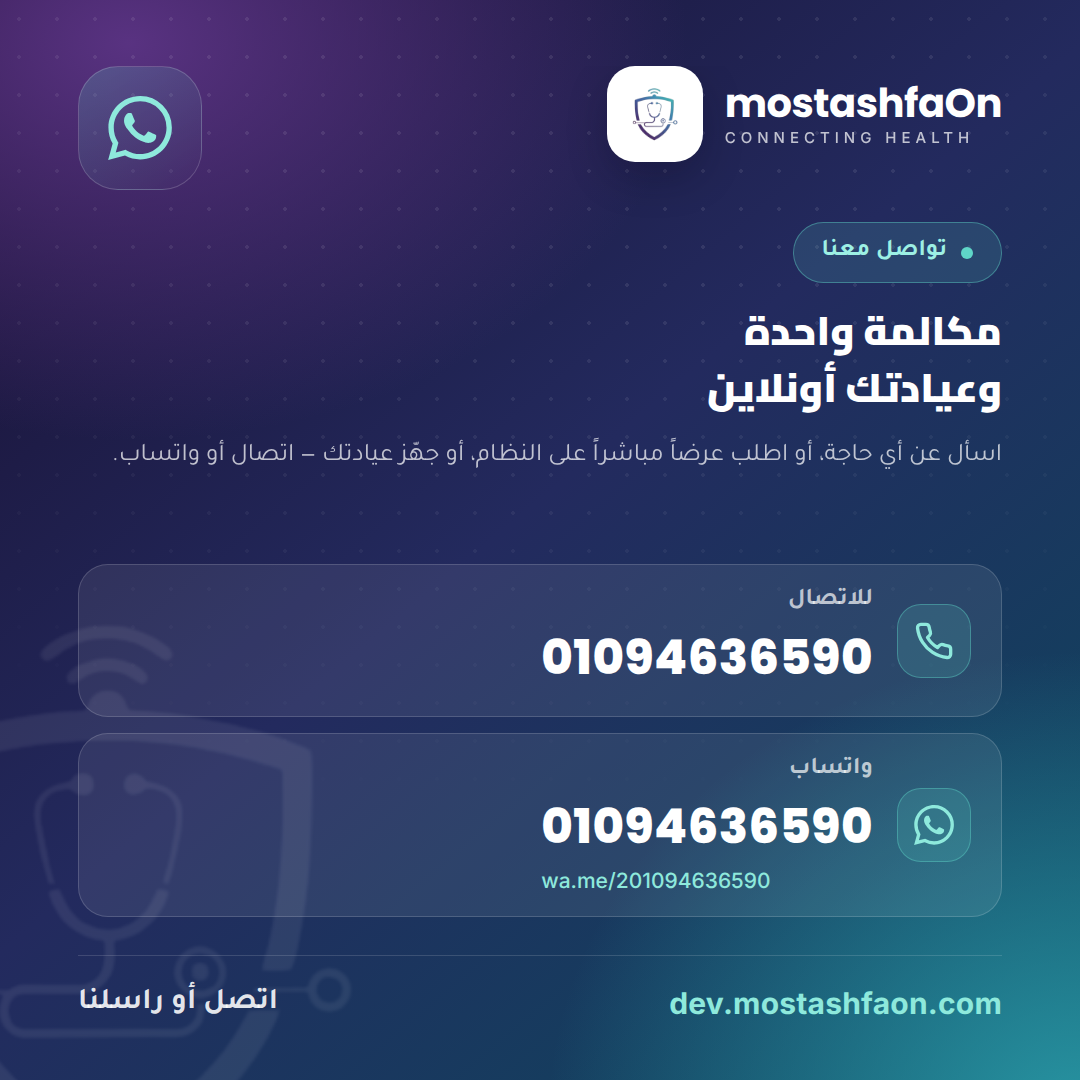
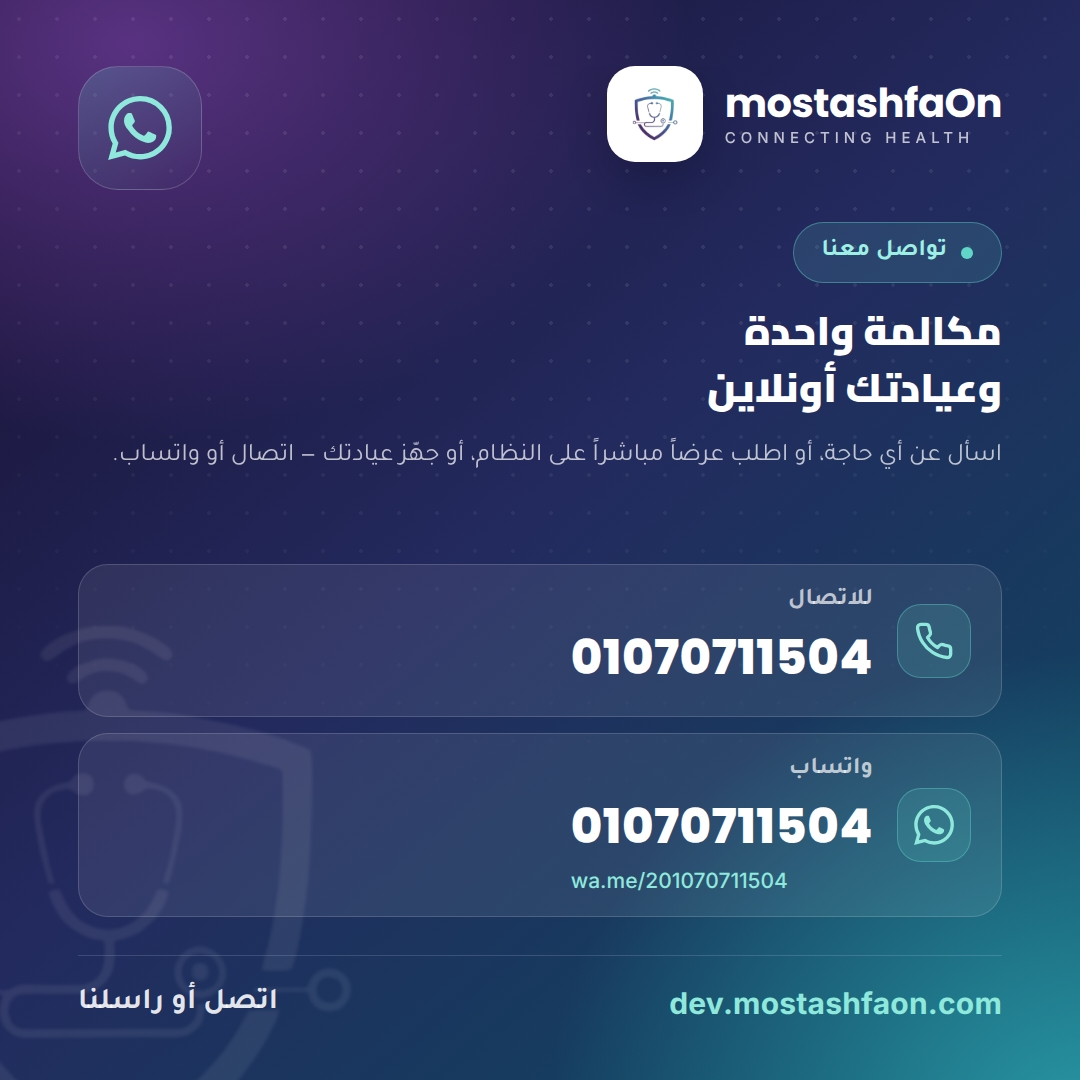
docs(marketing): change the contact number to 01070711504
Replaces the number on the contact cards and the phone covers, and in the
captions and the kit README, including the WhatsApp link
(wa.me/201070711504).

Claude-Session: https://claude.ai/code/session_01TWxwmWVDAeZ8zHuGmmbs3A

Changed region(s): [[0.4889, 0.7333, 0.825, 0.825], [0.4889, 0.5806, 0.825, 0.6417]]

diff --git a/docs/marketing/facebook/README.md b/docs/marketing/facebook/README.md
@@ -25,7 +25,7 @@ Cairo/Tajawal for Arabic. Every image carries `dev.mostashfaon.com`.
 
 - `cover-en.png`, `cover-ar.png` — all text sits in the centre safe area, so nothing is lost when
   Facebook crops the cover on mobile or hides the bottom-left corner behind the profile picture
-- `cover-en-phone.png`, `cover-ar-phone.png` — the same covers with **01094636590** (call and
+- `cover-en-phone.png`, `cover-ar-phone.png` — the same covers with **01070711504** (call and
   WhatsApp) on a pill under the trial link
 
 **Posts** (1080 × 1080 square — best reach in the feed). Each theme exists as `-en` and `-ar`:
@@ -43,7 +43,7 @@ Cairo/Tajawal for Arabic. Every image carries `dev.mostashfaon.com`.
 | 09 | `post-09-reception-{en,ar}.png` | Reception app and self check-in |
 | 10 | `post-10-medical-history-{en,ar}.png` | Patient file and medical history |
 | 11 | `post-11-website-{en,ar}.png` | Doctor profile website + features on demand |
-| — | `contact-{en,ar}.png` | Contact card: **01094636590** for calls and WhatsApp (`wa.me/201094636590`) |
+| — | `contact-{en,ar}.png` | Contact card: **01070711504** for calls and WhatsApp (`wa.me/201070711504`) |
 
 ## Editing the text and re-rendering
 

diff --git a/docs/marketing/facebook/post-captions.md b/docs/marketing/facebook/post-captions.md
@@ -258,16 +258,16 @@ month on the page so the number stays near the top.
 > Easier to just ask? Call us or send a WhatsApp message — we'll answer, show you the system live,
 > and set your clinic up if you want it.
 >
-> 📞 01094636590 — calls and WhatsApp
-> 💬 https://wa.me/201094636590
+> 📞 01070711504 — calls and WhatsApp
+> 💬 https://wa.me/201070711504
 > 🌐 Try it yourself first: https://dev.mostashfaon.com
 
 **AR**
 > تحب تسأل على طول؟ اتصل بينا أو ابعتلنا واتساب — هنرد عليك، ونوريك النظام مباشرة، ونجهّزلك عيادتك
 > لو حابب.
 >
-> 📞 01094636590 — اتصال وواتساب
-> 💬 https://wa.me/201094636590
+> 📞 01070711504 — اتصال وواتساب
+> 💬 https://wa.me/201070711504
 > 🌐 أو جرّبه بنفسك الأول: https://dev.mostashfaon.com
 
 ---
